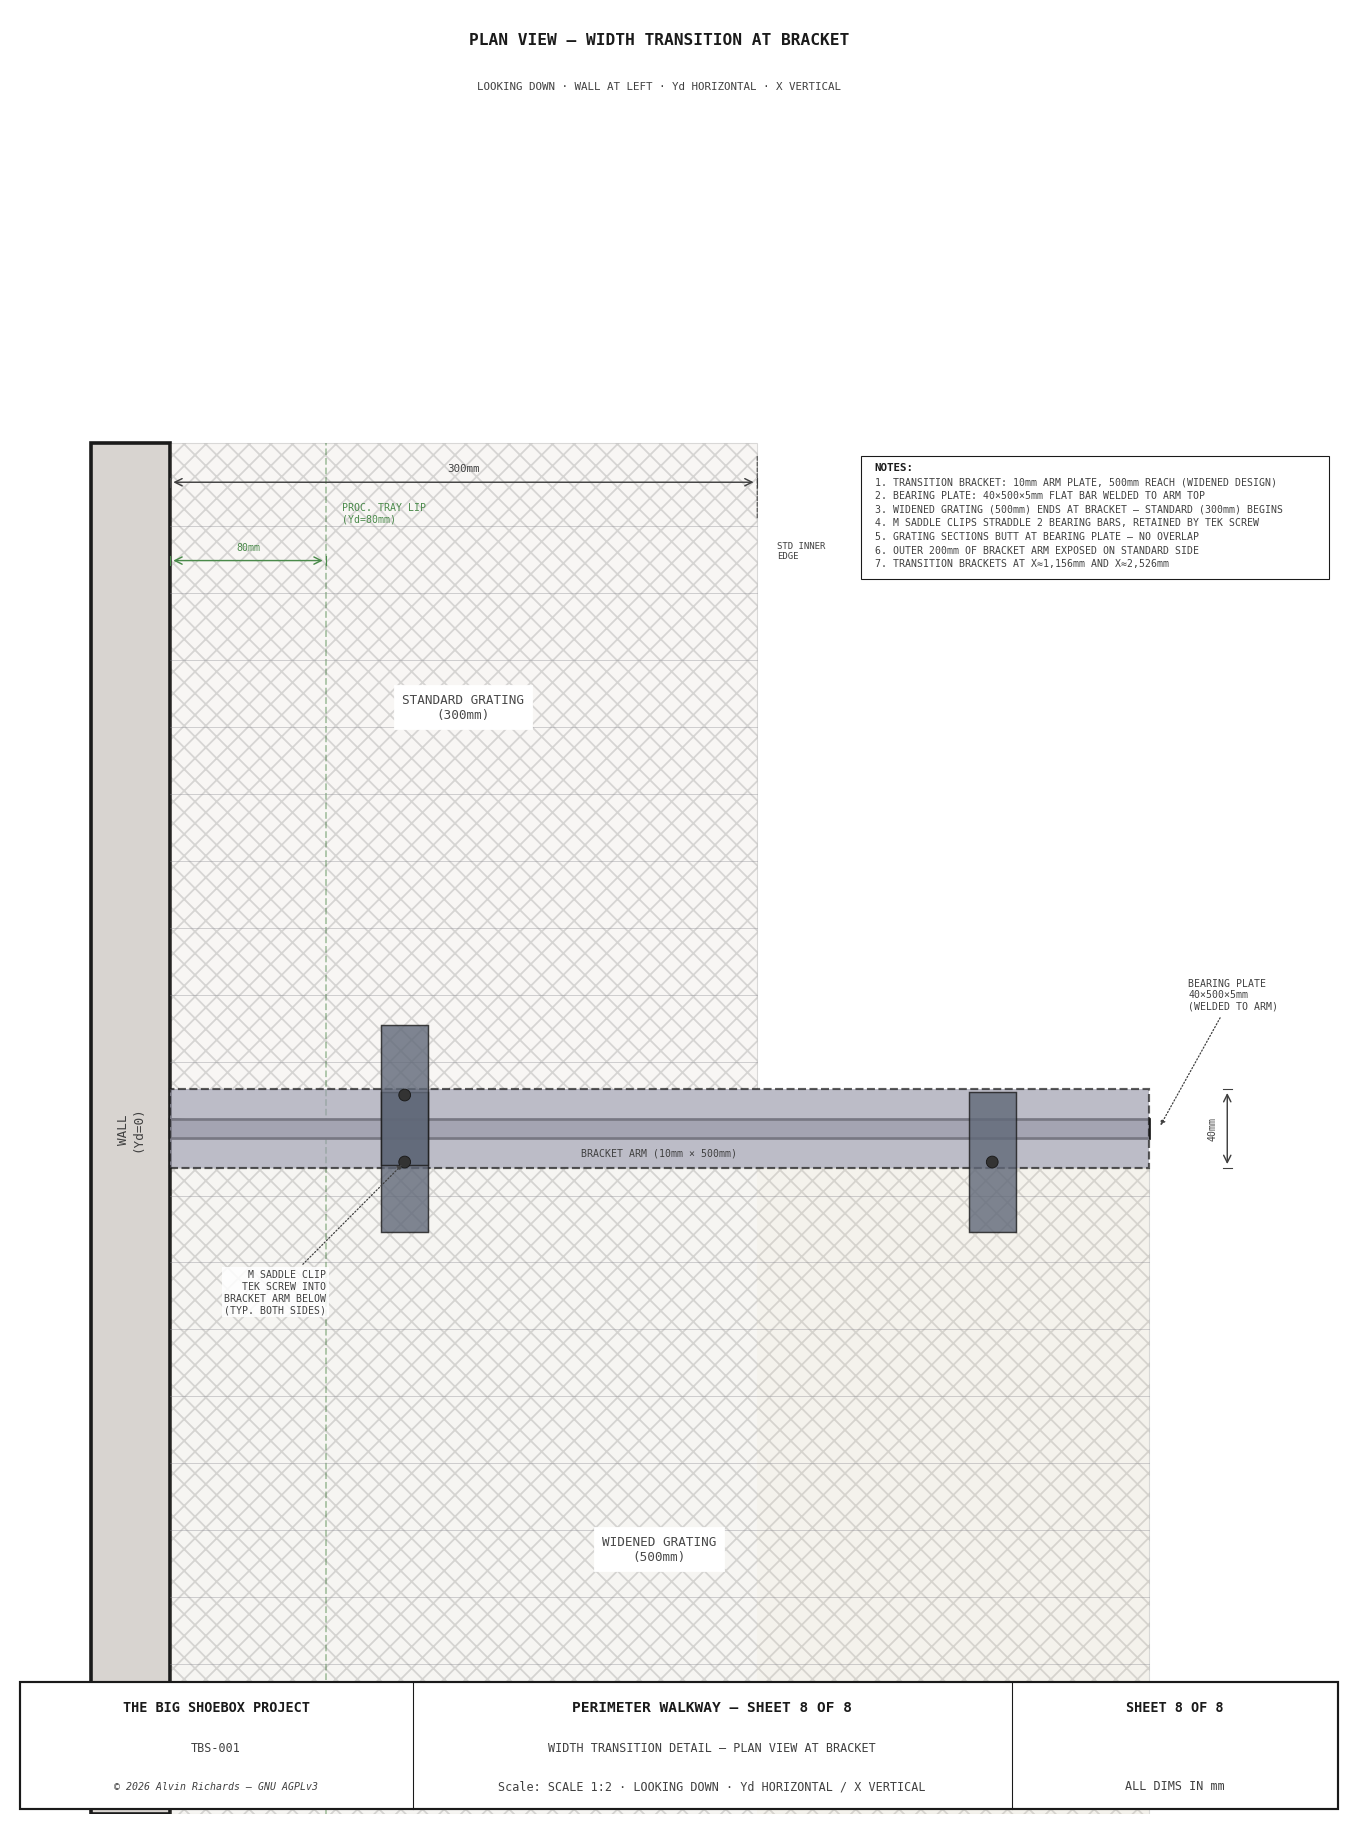
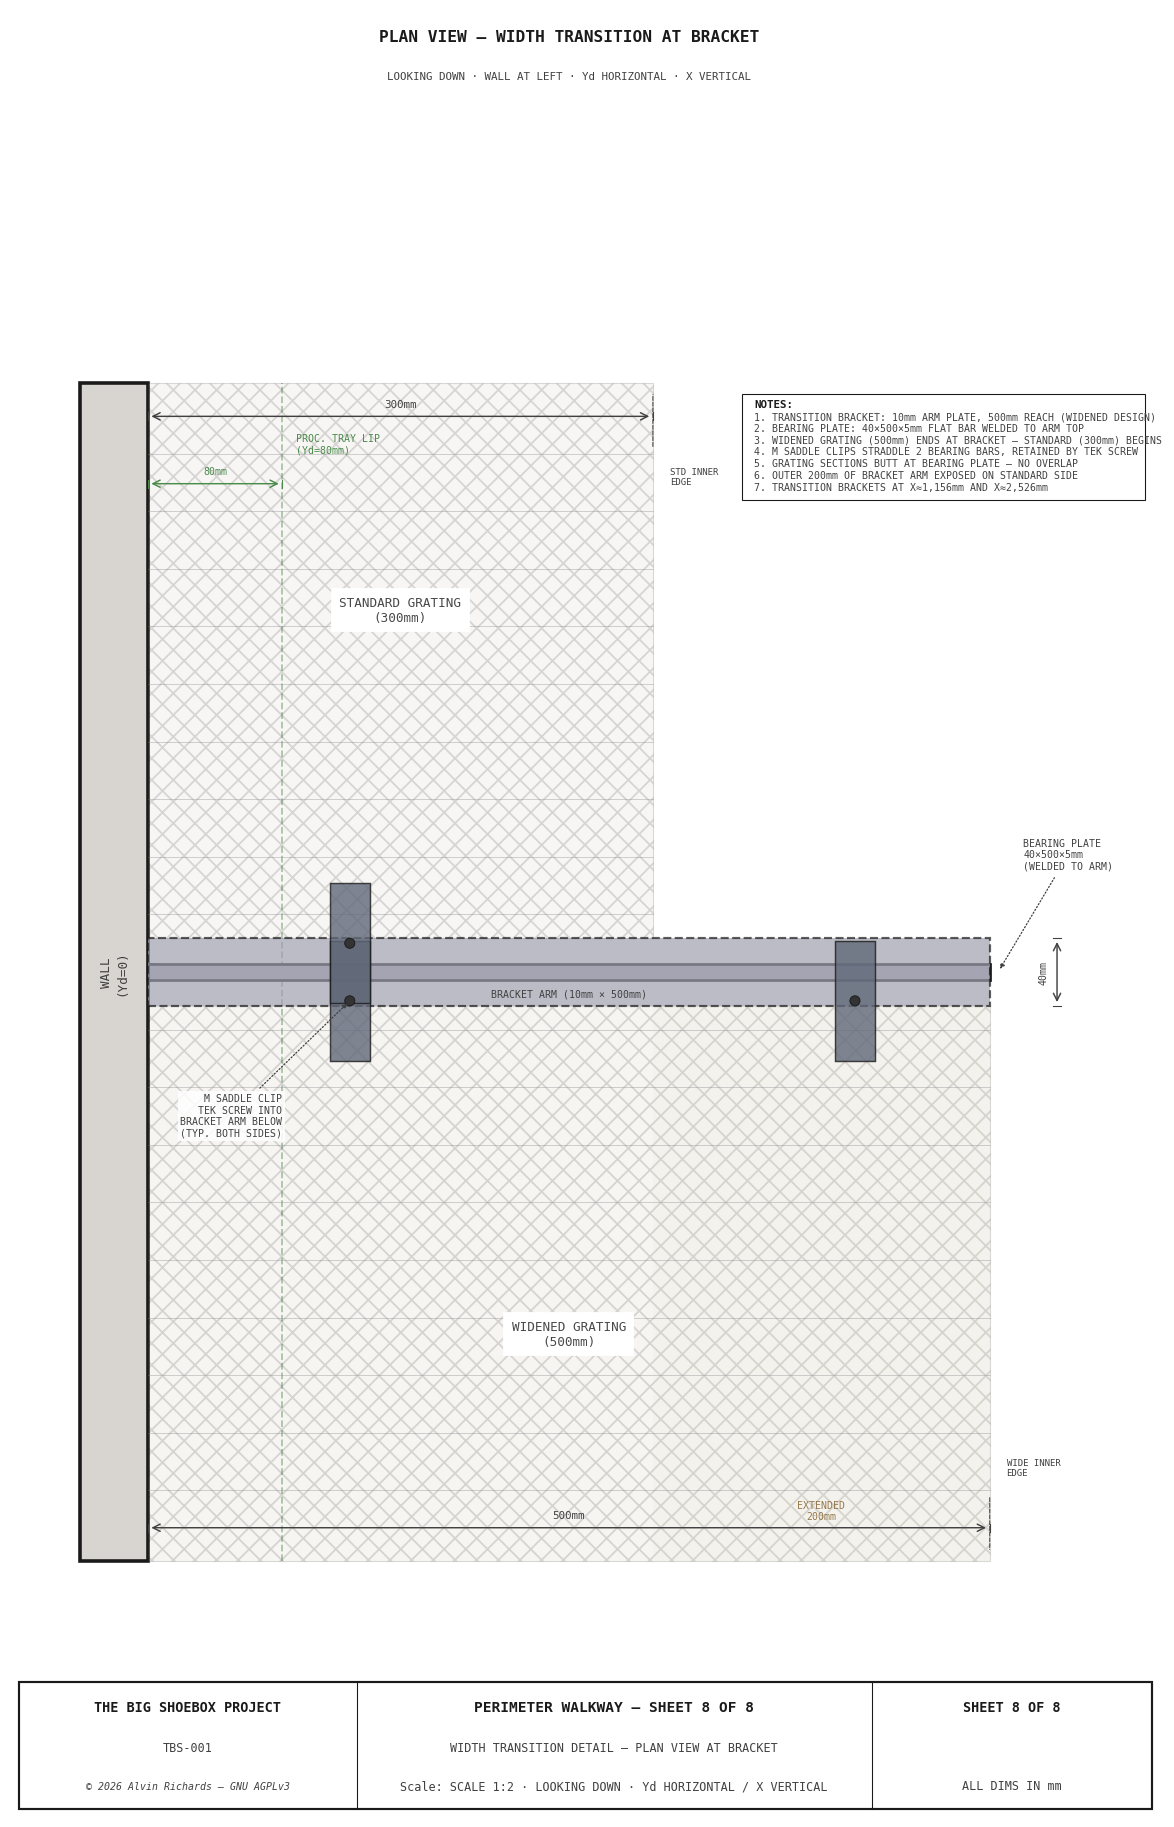
Sheet 8: shift diagram up 150mm to clear title block

diff --git a/generate_walkway_diagram.py b/generate_walkway_diagram.py
@@ -3139,7 +3139,7 @@ def sheet8():
     fig.patch.set_facecolor(BG)
     ax.set_facecolor(BG)
     ax.set_xlim(sx(YD_LO), sx(YD_HI))
-    ax.set_ylim(sy(-SHOW_X), sy(TITLE_Y))
+    ax.set_ylim(sy(-SHOW_X - 150), sy(TITLE_Y))
     ax.set_aspect("equal")
     ax.axis("off")
 
